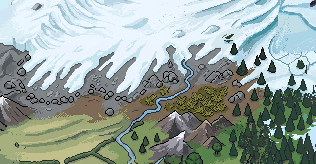
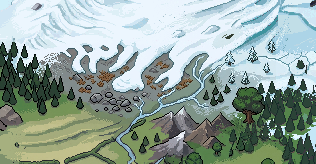
EPO03 north: NA accepted - the NW snowline stops being a ruler line and becomes altitude, moraine and melt tongues under the drifts

diff --git a/GAME_BIBLE/ART/exploration/EPO03/ledger/WORLD_NORTH.md b/GAME_BIBLE/ART/exploration/EPO03/ledger/WORLD_NORTH.md
@@ -10,3 +10,4 @@ Regions: `E/src/atlas/regions_north.json` (pending) → `E/out/atlas/manifest_no
 
 | job id | tool | canvas (region, inpaint rect, seed) | cost line | verdict | reason |
 |---|---|---|---|---|---|
+| `6672f5c4-4545-4efb-8abe-5c5e3a49bbb2` | inpaint_image | NA 316x164 @ (0,176), inpaint 0,40 276x84, seed 40 | ~25 generations | **ACCEPT** | NW snowline r1. The horizontal snow/meadow ruler line at y=267 and the vertical patch seam at x=171 are gone; the olive dead-zone smear at 170-214 x 220-270 is now moraine, rust bracken and snow tongues between rock knolls, firs thinning upward, the beck running south. changed-outside-mask 4,941 (blocked). repeated 10x10 pairs 0; orphan flecks 475 (peer range 214-609). |
